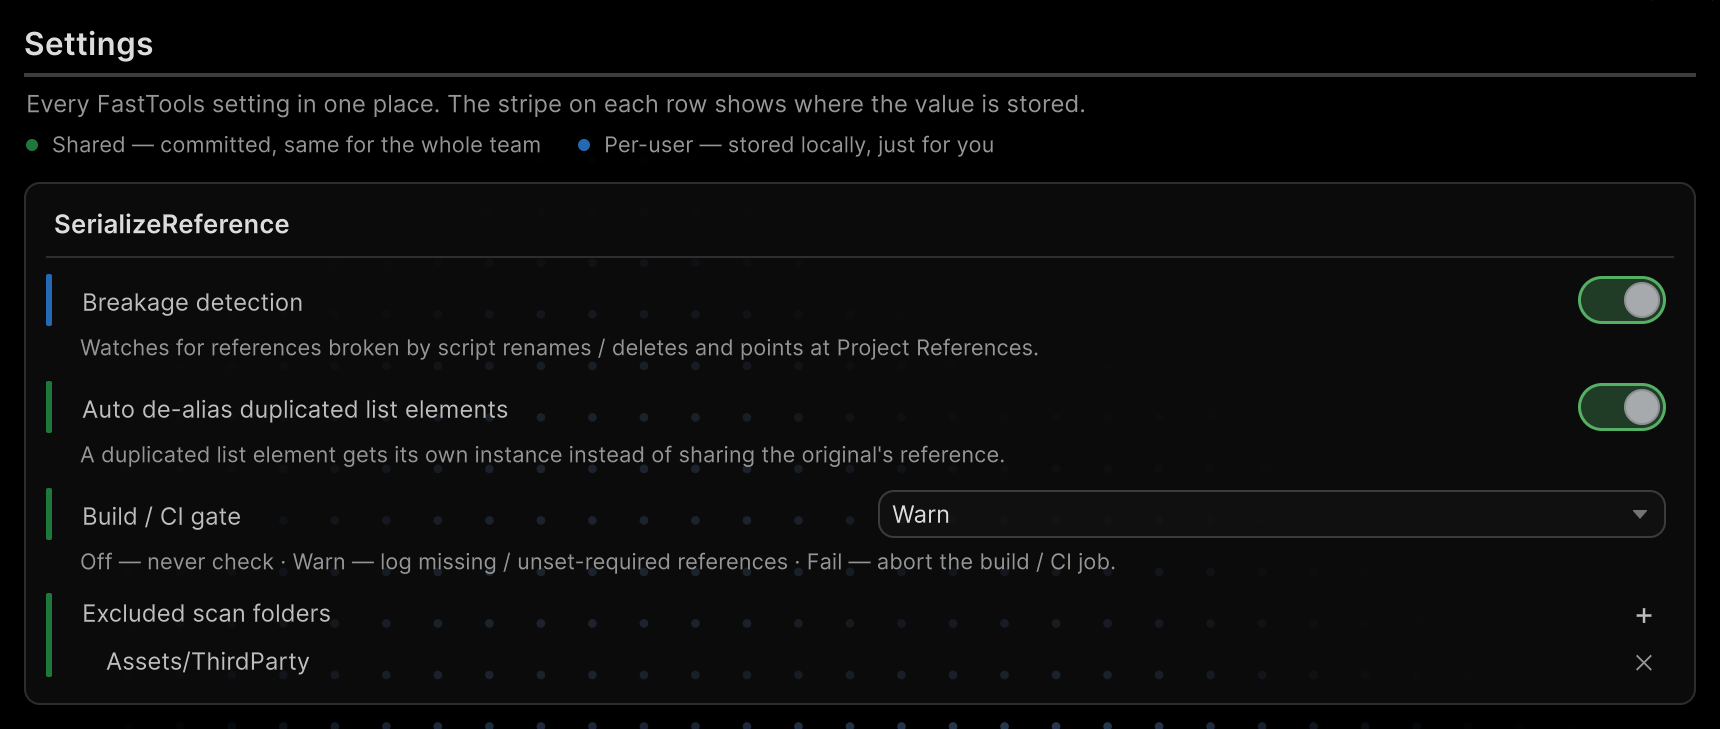
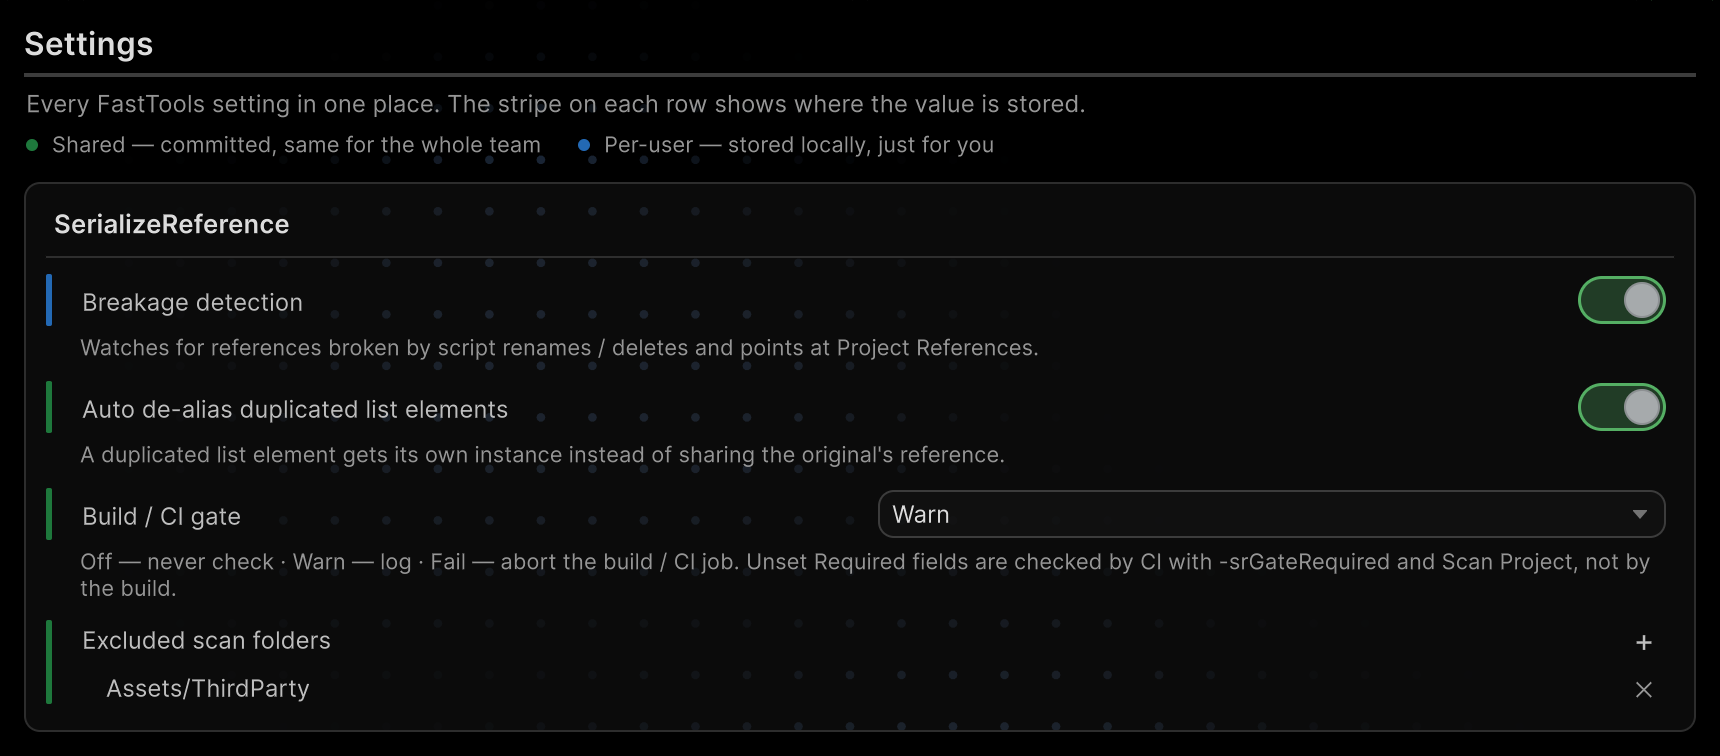
docs(serialize-references): follow merged Required and badge fixes
- Asset References checks Required in excluded folders too
- Re-shoot Settings (new gate note) and Asset References (real SHARED badge)

diff --git a/Aspid.FastTools/Packages/tech.aspid.fasttools/Documentation/ru/04-serialize-reference-tooling.md b/Aspid.FastTools/Packages/tech.aspid.fasttools/Documentation/ru/04-serialize-reference-tooling.md
@@ -100,7 +100,7 @@ Project References и Asset References — вкладки одного окна.
 | Запуск | Потерянные типы | Пустые поля с <code lang="csharp">Required = true</code> |
 |---|---|---|
 | **Project References → Scan Project** | Да, вместе с ожидающими миграциями | Если режим не `Off`, отдельной группой **Required violations** |
-| **Asset References** | Да | Да, в любом режиме, кроме ассетов из **Excluded scan folders** |
+| **Asset References** | Да | Да, в любом режиме |
 | Сборка плеера | Если режим не `Off` | Нет |
 | CI без `-srGateRequired` | Если режим не `Off` | Нет |
 | CI с `-srGateRequired` | Если режим не `Off` | Если режим не `Off` |

diff --git a/Aspid.FastTools/Packages/tech.aspid.fasttools/Documentation/04-serialize-reference-tooling.md b/Aspid.FastTools/Packages/tech.aspid.fasttools/Documentation/04-serialize-reference-tooling.md
@@ -100,7 +100,7 @@ The build checks every asset under `Assets/`, not only what goes into it: in `Fa
 | Run | Missing types | Empty fields with <code lang="csharp">Required = true</code> |
 |---|---|---|
 | **Project References → Scan Project** | Yes, with pending migrations | Unless the mode is `Off`, as a **Required violations** group |
-| **Asset References** | Yes | Yes, in any mode, except assets in **Excluded scan folders** |
+| **Asset References** | Yes | Yes, in any mode |
 | Player build | Unless the mode is `Off` | No |
 | CI without `-srGateRequired` | Unless the mode is `Off` | No |
 | CI with `-srGateRequired` | Unless the mode is `Off` | Unless the mode is `Off` |
